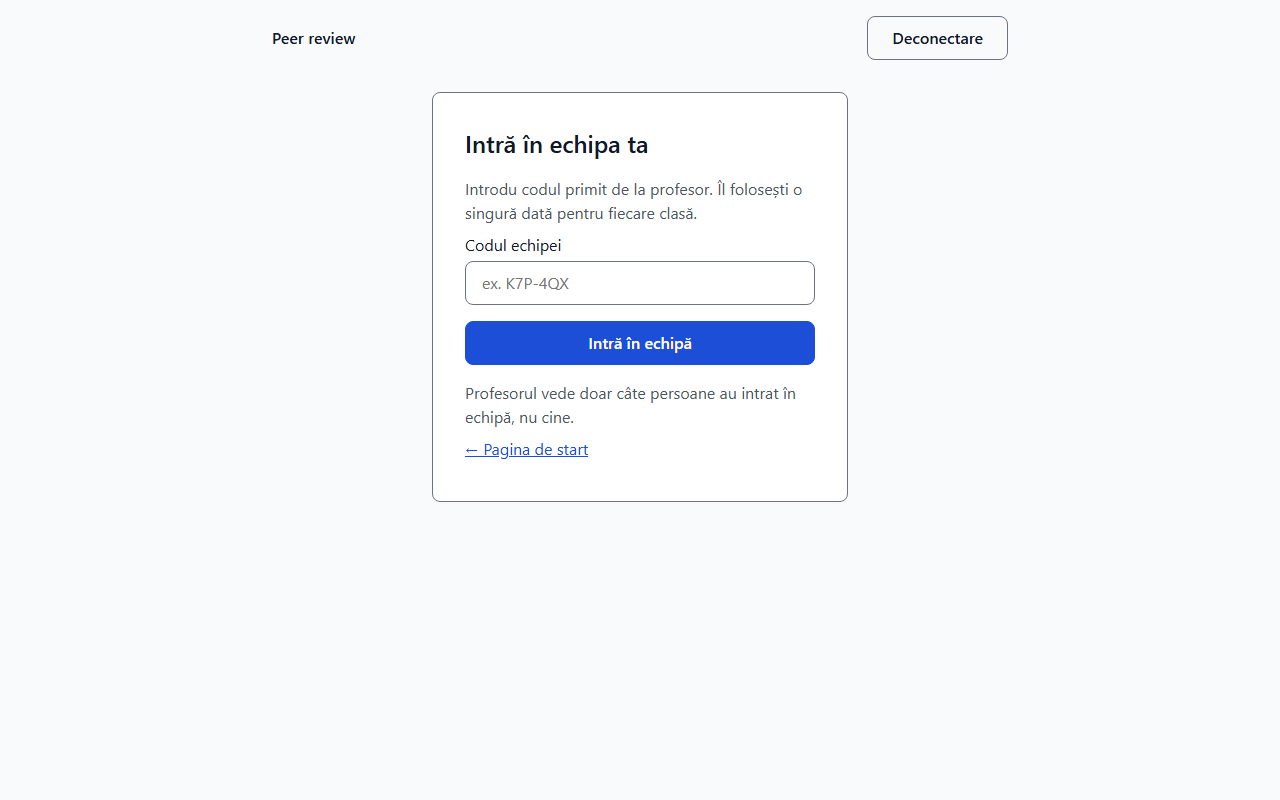
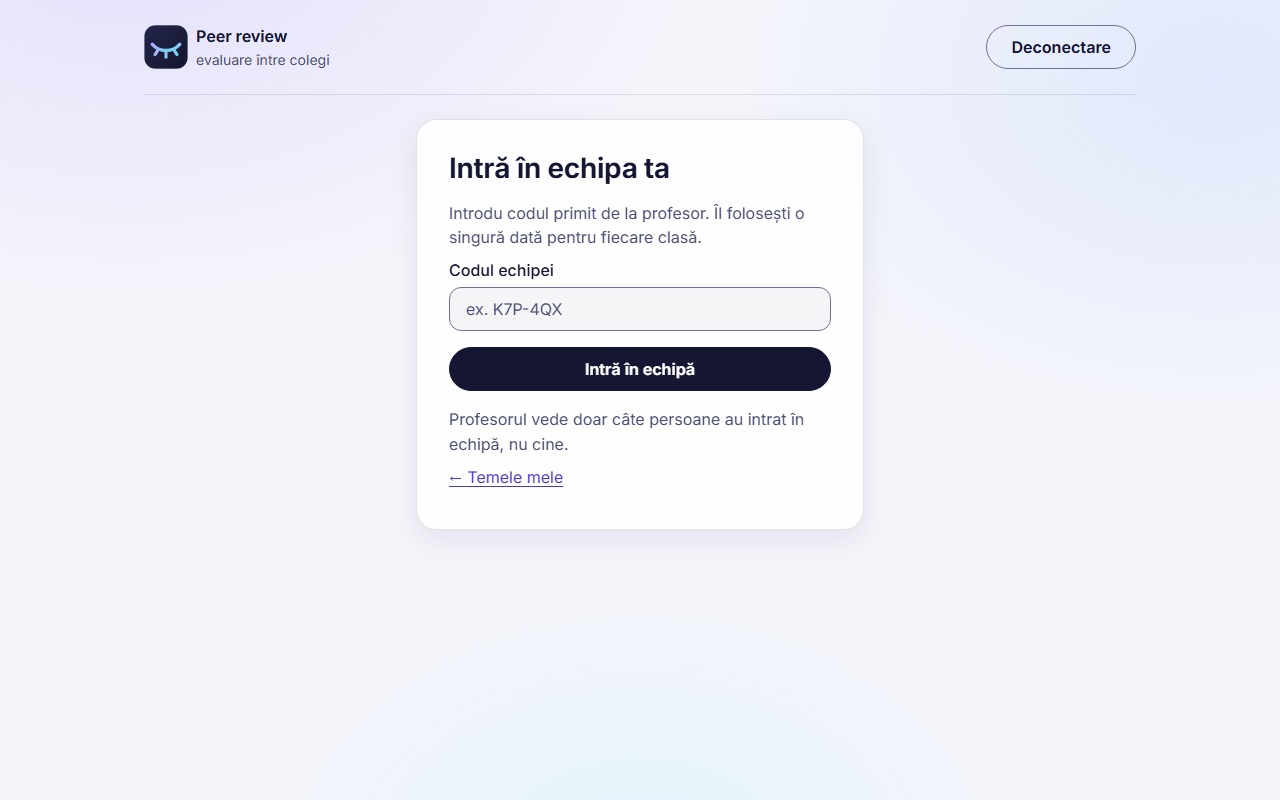
feat(web): apply the new design to every screen (D-019)
Closed-eye brand in the header, pill menu, two-column login, status chips
with a dot and text, Inter served by the app. Screenshots of all screens in
both themes; contrast passes for every token pair.

Changed region(s): [[0.3438, 0.1562, 0.6562, 0.625], [0.0938, 0.0312, 0.2812, 0.0938], [0.6875, 0.0312, 0.875, 0.0938]]

diff --git a/web/src/LoginPage.tsx b/web/src/LoginPage.tsx
@@ -1,5 +1,6 @@
 import { FormEvent, useState } from 'react';
 import { login, User } from './api';
+import { Brand } from './Brand';
 
 export function LoginPage({ onLogin }: { onLogin: (user: User) => void }) {
   const [email, setEmail] = useState('');
@@ -20,16 +21,33 @@ export function LoginPage({ onLogin }: { onLogin: (user: User) => void }) {
   }
 
   return (
-    <main className="center">
+    <main className="login">
+      <section className="hero">
+        <Brand />
+        <h1>
+          Evaluare între colegi,
+          <br />
+          <span className="gradient-text">anonimă în ambele sensuri.</span>
+        </h1>
+        <p className="lead">
+          Profesorul definește grila, aplicația împarte proiectele, iar fiecare notă vine cu feedback pe criterii.
+        </p>
+        <ul className="points">
+          <li>Nu vezi al cui e proiectul, iar autorul nu vede cine l-a evaluat.</li>
+          <li>Numele autorului dispare automat din fișierele PDF și DOCX.</li>
+          <li>Termenele de predare și de evaluare sunt verificate de server.</li>
+        </ul>
+      </section>
       <form className="card" onSubmit={handleSubmit} noValidate>
-        <p className="brand">Peer review</p>
         <h1>Autentificare</h1>
+        <p className="muted">Intră cu emailul de la universitate.</p>
         <div className="field">
           <label htmlFor="email">Email</label>
           <input
             id="email"
             type="email"
             autoComplete="username"
+            placeholder="prenume.nume@ulbsibiu.ro"
             required
             value={email}
             onChange={(event) => setEmail(event.target.value)}

diff --git a/web/src/Layout.tsx b/web/src/Layout.tsx
@@ -1,6 +1,7 @@
 import { ReactNode, useState } from 'react';
 import { NavLink, Outlet } from 'react-router';
 import { logout, User } from './api';
+import { Brand } from './Brand';
 
 /** DS-pr-menu: the professor and admin menu (D-015). NavLink marks the current page with aria-current. */
 export function Layout({ user, onLogout }: { user: User; onLogout: () => void }) {
@@ -23,19 +24,19 @@ export function Layout({ user, onLogout }: { user: User; onLogout: () => void })
   return (
     <div className="page">
       <header className="header">
-        <p className="brand">Peer review</p>
+        <Brand />
+        {staff && (
+          <nav className="nav" aria-label="Meniu">
+            <NavLink to="/grile-active">Grile active</NavLink>
+            <NavLink to="/schite">Schițe de grile</NavLink>
+            <NavLink to="/clase">Clase profesor</NavLink>
+            {user.role === 'ADMIN' && <NavLink to="/profesori">Profesori</NavLink>}
+          </nav>
+        )}
         <button className="secondary" type="button" onClick={handleLogout} disabled={leaving}>
           Deconectare
         </button>
       </header>
-      {staff && (
-        <nav className="nav" aria-label="Meniu">
-          <NavLink to="/grile-active">Grile active</NavLink>
-          <NavLink to="/schite">Schițe de grile</NavLink>
-          <NavLink to="/clase">Clase profesor</NavLink>
-          {user.role === 'ADMIN' && <NavLink to="/profesori">Profesori</NavLink>}
-        </nav>
-      )}
       <main>
         {error && <ErrorText message={error} />}
         <Outlet />

diff --git a/web/src/pages/MyAssignmentsPage.tsx b/web/src/pages/MyAssignmentsPage.tsx
@@ -4,7 +4,7 @@ import { api, MyAssignment, submitProject } from '../api';
 import { formatShort } from '../dates';
 import { ErrorText, Loaded } from '../Layout';
 import { useLoad } from '../useLoad';
-import { PHASE_LABELS } from './ActiveRubricsPage';
+import { PHASE_LABELS, PHASE_TONES } from './ActiveRubricsPage';
 
 const MAX_FILE_BYTES = 10 * 1024 * 1024;
 
@@ -16,7 +16,9 @@ export function MyAssignmentsPage() {
     <>
       <div className="toolbar">
         <h1>Temele mele</h1>
-        <Link to="/echipa">Intră într-o echipă cu un cod</Link>
+        <Link className="button-link secondary" to="/echipa">
+          Intră într-o echipă cu un cod
+        </Link>
       </div>
       <Loaded state={state}>
         {(assignments) =>
@@ -64,8 +66,12 @@ function AssignmentCard({
         Predare până pe {formatShort(a.submissionDeadline)} · Evaluare până pe {formatShort(a.reviewDeadline)}
       </p>
       <p>
-        <span className="badge">{PHASE_LABELS[a.phase]}</span>{' '}
-        {a.submission ? `Predat pe ${formatShort(a.submission.updatedAt)}` : 'Nu ați predat încă.'}
+        <span className={`badge ${PHASE_TONES[a.phase]}`}>{PHASE_LABELS[a.phase]}</span>{' '}
+        {a.submission ? (
+          <span className="badge success">Predat pe {formatShort(a.submission.updatedAt)}</span>
+        ) : (
+          <span className="badge warning">Nu ați predat încă</span>
+        )}
       </p>
       {a.submission && (
         <dl className="facts">

diff --git a/web/src/pages/ActiveRubricsPage.tsx b/web/src/pages/ActiveRubricsPage.tsx
@@ -5,6 +5,14 @@ import { formatShort } from '../dates';
 import { Loaded } from '../Layout';
 import { useLoad } from '../useLoad';
 
+/** The dot colour of each phase chip; the text always says the phase too. */
+export const PHASE_TONES: Record<Phase, string> = {
+  submission: 'info',
+  review: 'accent',
+  disputes: 'warning',
+  closed: 'success',
+};
+
 export const PHASE_LABELS: Record<Phase, string> = {
   submission: 'Predare deschisă',
   review: 'Evaluare în curs',
@@ -51,8 +59,12 @@ export function ActiveRubricsPage() {
                     Contestații {formatShort(a.disputeDeadline)}
                   </p>
                   <p>
-                    <span className="badge">{a.rubricArchived ? 'Arhivată' : PHASE_LABELS[a.phase]}</span>{' '}
-                    {a.reviewsSubmitted} din {a.reviewsExpected} evaluări trimise
+                    <span className={`badge ${a.rubricArchived ? '' : PHASE_TONES[a.phase]}`}>
+                      {a.rubricArchived ? 'Arhivată' : PHASE_LABELS[a.phase]}
+                    </span>{' '}
+                    <span className="badge">
+                      {a.reviewsSubmitted} din {a.reviewsExpected} evaluări trimise
+                    </span>
                   </p>
                 </li>
               ))}

diff --git a/web/src/pages/ActiveRubricDetailPage.tsx b/web/src/pages/ActiveRubricDetailPage.tsx
@@ -4,7 +4,7 @@ import { api, AssignmentDetail, Deadlines } from '../api';
 import { formatShort, fromLocalInput, toLocalInput } from '../dates';
 import { ErrorText, Loaded } from '../Layout';
 import { useLoad } from '../useLoad';
-import { PHASE_LABELS } from './ActiveRubricsPage';
+import { PHASE_LABELS, PHASE_TONES } from './ActiveRubricsPage';
 
 const FIELDS: { key: keyof Deadlines; label: string }[] = [
   { key: 'submissionDeadline', label: 'Predare' },
@@ -69,7 +69,9 @@ function Detail({ assignment: a, onChange }: { assignment: AssignmentDetail; onC
     <>
       <h1>{a.title}</h1>
       <p>
-        <span className="badge">{a.rubricArchived ? 'Arhivată' : PHASE_LABELS[a.phase]}</span>{' '}
+        <span className={`badge ${a.rubricArchived ? '' : PHASE_TONES[a.phase]}`}>
+          {a.rubricArchived ? 'Arhivată' : PHASE_LABELS[a.phase]}
+        </span>{' '}
         <span className="badge">Blocată: nu se mai modifică</span>
       </p>
       {error && <ErrorText message={error} />}

diff --git a/web/src/Brand.tsx b/web/src/Brand.tsx
@@ -1,0 +1,12 @@
+/** The app's own name and closed-eye logo (D-019); never the university's branding. */
+export function Brand() {
+  return (
+    <span className="brand">
+      <img src="/logo.svg" alt="" />
+      <span>
+        <strong>Peer review</strong>
+        <small>evaluare între colegi</small>
+      </span>
+    </span>
+  );
+}

diff --git a/web/index.html b/web/index.html
@@ -4,6 +4,8 @@
     <meta charset="UTF-8" />
     <meta name="viewport" content="width=device-width, initial-scale=1.0" />
     <title>Peer review</title>
+    <link rel="icon" type="image/svg+xml" href="/logo.svg" />
+    <meta name="theme-color" content="#0b0d1a" />
   </head>
   <body>
     <div id="root"></div>

diff --git a/web/src/main.tsx b/web/src/main.tsx
@@ -1,5 +1,6 @@
 import { StrictMode } from 'react';
 import { createRoot } from 'react-dom/client';
+import '@fontsource-variable/inter';
 import { App } from './App';
 import './tokens.css';
 import './styles.css';

diff --git a/docs/design/DESIGN.md b/docs/design/DESIGN.md
@@ -102,43 +102,67 @@ them; a ticket with UI has a design subtask instead (team addon).
 
 ## Tokens
 
+Style (D-019): inspired by smartportal.ulbsibiu.ro, never its logo, name or branding. Dark is
+the default; light follows `prefers-color-scheme: light`. The page background is
+`--gradient-page` (three soft glows) over `--color-bg`. Every text, border and focus pair
+below passes contrast in both themes, checked over the brightest glow.
+
 ### Color
-| Token | Light | Dark | Use |
+| Token | Dark (default) | Light | Use |
 |---|---|---|---|
-| --color-bg | #f8fafc | #0f172a | page background |
-| --color-surface | #ffffff | #1e293b | cards and inputs |
-| --color-text | #111827 | #f1f5f9 | body text |
-| --color-muted | #4b5563 | #cbd5e1 | secondary text |
-| --color-border | #6b7280 | #94a3b8 | card and input borders |
-| --color-primary | #1d4ed8 | #93c5fd | primary button |
-| --color-on-primary | #ffffff | #0f172a | text on the primary button |
-| --color-error | #b91c1c | #fca5a5 | error text |
-| --color-focus | #1d4ed8 | #93c5fd | focus ring |
+| --color-bg | #0b0d1a | #f4f5fb | page background, under the glows |
+| --color-glow-1/2/3 | violet, blue, cyan glows | same, fainter | `--gradient-page` |
+| --color-surface | rgba(22,24,48,.78) | rgba(255,255,255,.86) | cards, fieldsets, tables |
+| --color-surface-2 | rgba(255,255,255,.045) | rgba(20,22,50,.04) | inputs, chips, menu track |
+| --color-border | rgba(255,255,255,.1) | rgba(20,22,50,.12) | card borders, separators (decorative) |
+| --color-border-strong | #7d82b3 | #6e7298 | input and secondary button borders (≥ 3:1) |
+| --color-text | #eef0ff | #141632 | body text |
+| --color-muted | #a8acd0 | #4a4e72 | secondary text |
+| --color-primary | #ffffff | #141632 | primary pill button, current menu item |
+| --color-on-primary | #0b0d1a | #ffffff | text on the primary button |
+| --color-link | #c4b8ff | #4b37c9 | links |
+| --color-accent-1 / -2 | #b9a8ff / #5ee3f0 | #6a4ff0 / #0d8fa6 | `--gradient-accent` (headline text, bullets) |
+| --color-info | #5ee3f0 | #065f70 | chip dot: submission open |
+| --color-success | #5be3a6 | #0c6141 | chip dot: done, submitted |
+| --color-warning | #f5c76b | #6f4800 | chip dot: disputes, not submitted |
+| --color-error | #ff9090 | #b42323 | error text |
+| --color-focus | #8fe9f5 | #4b37c9 | focus ring |
 
 ### Typography
-| Token | Family | Size / line height | Weight | Use |
-|---|---|---|---|---|
-| --font-size-body | system-ui stack | 1rem / 1.5 | 400 | body text |
-| --font-size-title | system-ui stack | 1.5rem / 1.5 | 600 | page heading |
+Inter Variable, served by the app (`@fontsource-variable/inter`), then the system stack.
+
+| Token | Size / line height | Weight | Use |
+|---|---|---|---|
+| --font-size-display | clamp(2rem, 4.5vw, 3.25rem) / 1.15 | 650 | login headline |
+| --font-size-title | 1.75rem / 1.15 | 650 | page heading |
+| --font-size-body | 1rem / 1.55 | 400, 500 labels | body text |
+| --font-size-small | 0.875rem | 500 | chips, table headers |
 
 ### Spacing
 | Token | Value |
 |---|---|
-| --space-1 | 0.25rem |
-| --space-2 | 0.5rem |
-| --space-3 | 1rem |
-| --space-4 | 1.5rem |
-| --space-5 | 2rem |
+| --space-1 … --space-6 | 0.25, 0.5, 1, 1.5, 2, 3 rem |
 
 ### Radius, shadow, motion
 | Token | Value | Use |
 |---|---|---|
-| --radius | 0.5rem | cards and controls |
+| --radius | 0.75rem | inputs |
+| --radius-lg | 1.25rem | cards, tables, fieldsets |
+| --radius-pill | 999px | buttons, chips, menu |
+| --shadow-card | soft, darker in dark | cards |
 | --control-height | 2.75rem | minimum input and button height |
+| --duration | 150ms, 0 with reduced motion | hover transitions only |
+
+### Components
+- **Status chip** (`.badge` + `info`, `accent`, `success`, `warning`): a coloured dot and the text; colour never carries the meaning alone.
+- **Menu** (`.nav`): pill track; the current page is a filled pill (`aria-current`).
+- **Brand**: closed-eye logo (`web/public/logo.svg`) with "Peer review".
 
 ### Breakpoints / window sizes
 | Name | Min | Max |
 |---|---|---|
+| phone | 20rem | 47.99rem (menu on its own row) |
+| desktop | 48rem | — (login in two columns from 56rem) |
 
 ## Hard-coded values found (to migrate)
 | path:line | Value | Should be |
